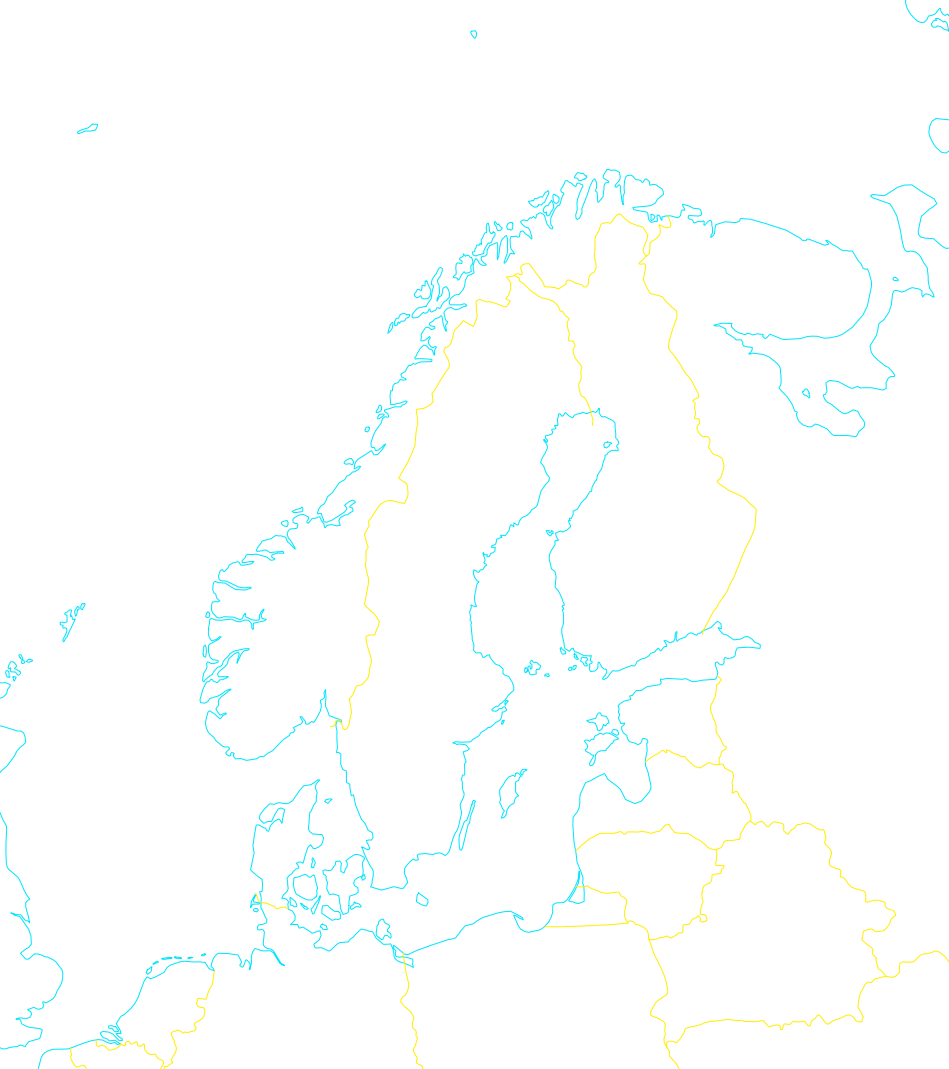
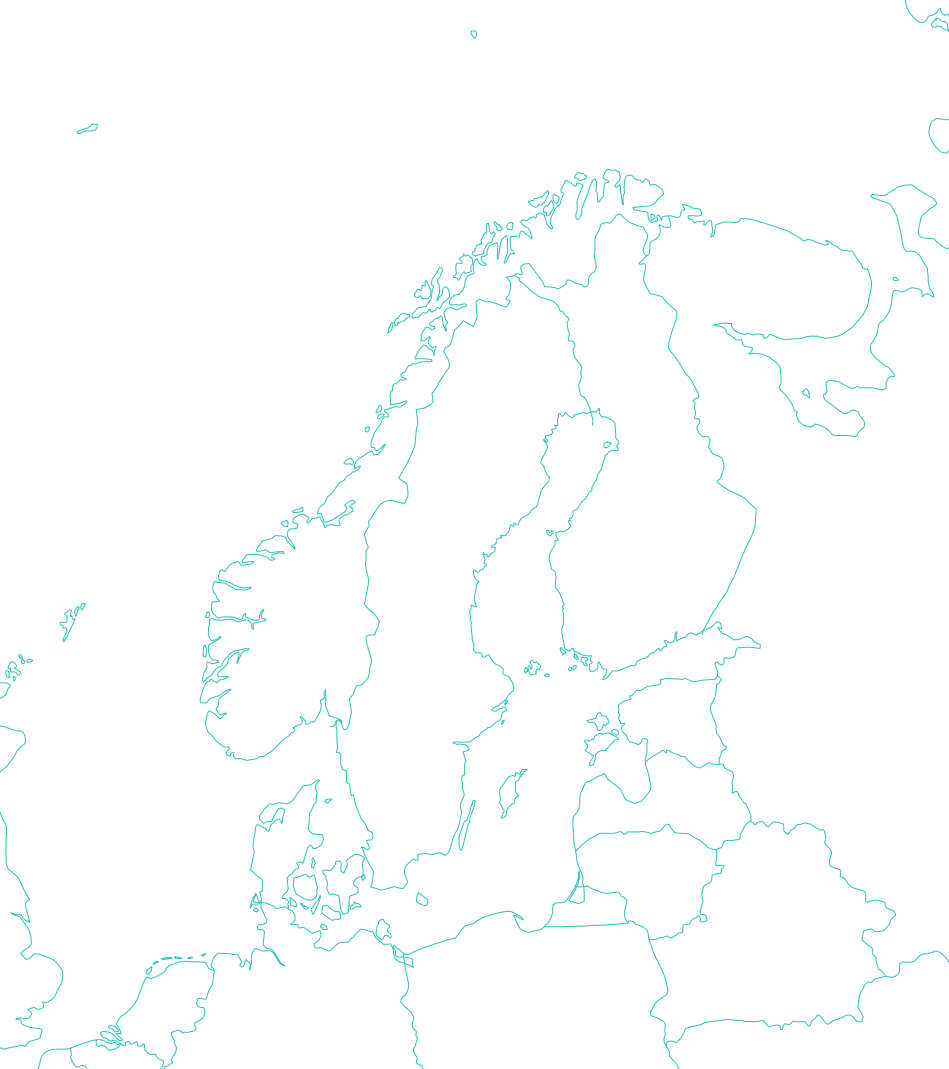
Apply teal coastline/border and darker roads
Coastline + borders now teal (#2ec4b6) -- refined vs the old cyan, still
visible over land/sea/cloud. Roads darkened to #a8742e (was #ffd27f) so they
recede under the coastline linework.

diff --git a/tools/build_coastline_overlay.py b/tools/build_coastline_overlay.py
@@ -42,9 +42,11 @@ PX = 72.0 / DPI  # matplotlib-points per output pixel
 
 # All map lines are 1px (matching the coastline weight); road class is
 # conveyed by BRIGHTNESS (alpha) instead of width -- major brightest, then
-# incrementally dimmer. Same warm tone for all; colour is a later tuning pass.
+# incrementally dimmer.
 LINE_PX = 1 * PX
-ROAD_COLOR = "#ffd27f"
+ROAD_COLOR = "#a8742e"      # darker warm tone (was #ffd27f)
+COAST_COLOR = "#2ec4b6"     # teal -- coastline + borders share it
+BORDER_COLOR = "#2ec4b6"
 
 # All road classes render into ONE roads.png (single viewer toggle); class is
 # conveyed by alpha. (class name, alpha), dimmest first so the brighter major
@@ -161,7 +163,7 @@ def main():
     coast = native_lines("physical", "coastline")
     borders = native_lines("cultural", "admin_0_boundary_lines_land")
     render_png(
-        [(coast, "#00e5ff", LINE_PX, 1.0), (borders, "#ffee00", LINE_PX, 1.0)],
+        [(coast, COAST_COLOR, LINE_PX, 1.0), (borders, BORDER_COLOR, LINE_PX, 1.0)],
         STATIC / "overlay.png", nx, ny, extent,
     )
 